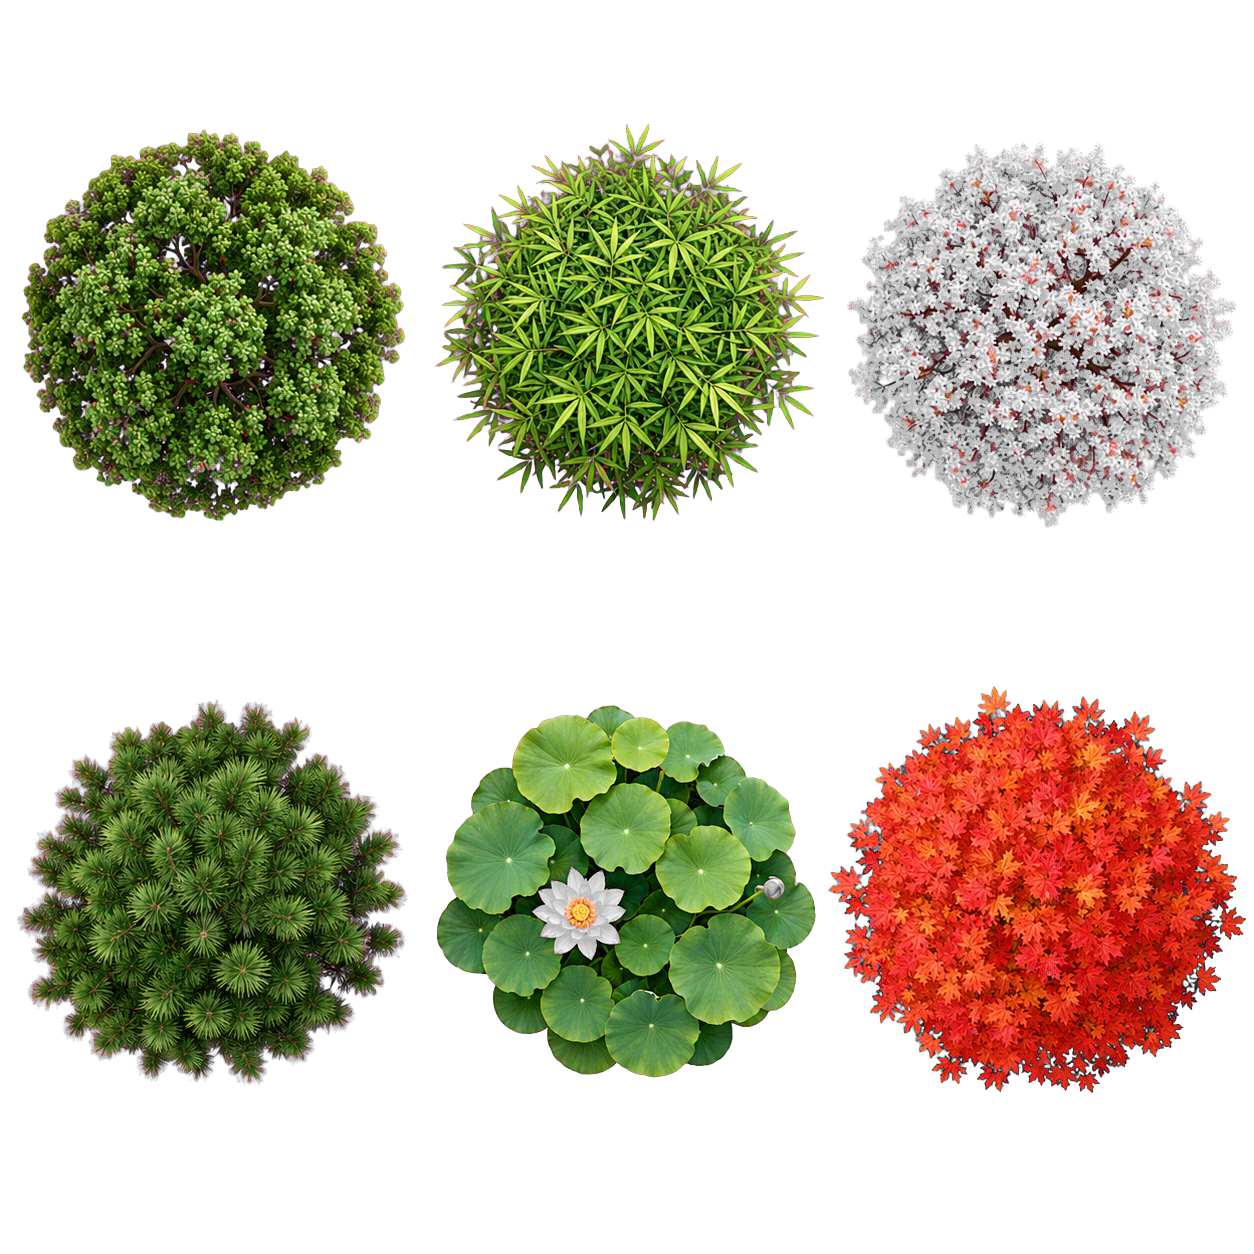
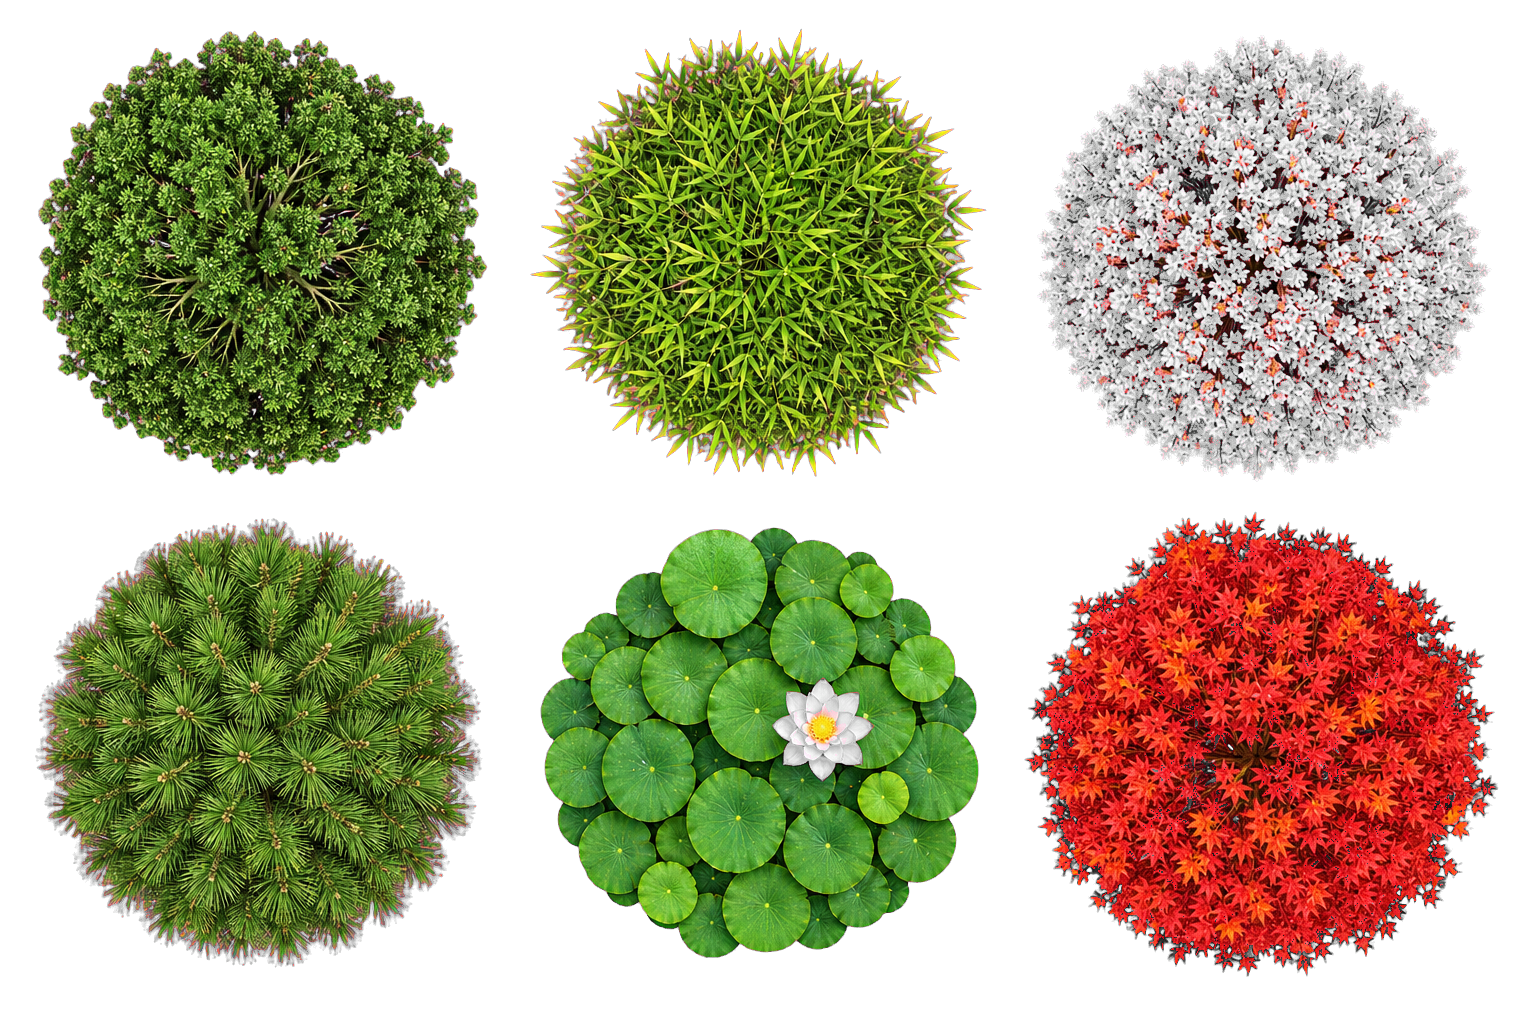
Veriosn4

diff --git a/styles.css b/styles.css
@@ -69,19 +69,28 @@ button {
 .brand {
   display: flex;
   align-items: center;
-  gap: 16px;
+  min-width: 0;
 }
 
-.brand-mark {
-  width: 54px;
-  height: 54px;
-  border-radius: 50%;
-  display: inline-block;
-  background:
-    radial-gradient(circle at 50% 50%, #f8e6a1 0 10%, transparent 11%),
-    radial-gradient(circle at 47% 48%, transparent 0 30%, rgba(91, 139, 72, 0.55) 31% 33%, transparent 34%),
-    conic-gradient(from 12deg, #6dae55, #b7d979, #3e8b58, #7ac7b4, #6dae55);
-  box-shadow: inset 0 0 0 4px rgba(255, 255, 255, 0.72), 0 8px 18px rgba(49, 104, 66, 0.18);
+.brand-logo {
+  display: block;
+  width: clamp(250px, 39vw, 500px);
+  max-height: 142px;
+  object-fit: contain;
+  object-position: left center;
+  mix-blend-mode: multiply;
+}
+
+.sr-only {
+  position: absolute;
+  width: 1px;
+  height: 1px;
+  margin: -1px;
+  padding: 0;
+  overflow: hidden;
+  clip: rect(0, 0, 0, 0);
+  white-space: nowrap;
+  border: 0;
 }
 
 h1,
@@ -211,6 +220,135 @@ dialog {
 .plant-input:focus {
   border-color: var(--water);
   box-shadow: 0 0 0 4px rgba(103, 183, 189, 0.16);
+}
+
+.plant-upload-panel {
+  margin: 22px 0 26px;
+  padding: 20px 22px;
+  border: 1px solid rgba(88, 132, 91, 0.24);
+  border-radius: 10px;
+  background: rgba(255, 255, 248, 0.58);
+}
+
+.rules-panel {
+  margin: 18px 0 22px;
+  border: 1px solid rgba(88, 132, 91, 0.24);
+  border-radius: 10px;
+  background: rgba(255, 255, 248, 0.58);
+}
+
+.rules-panel summary {
+  padding: 15px 20px;
+  color: #41634a;
+  cursor: pointer;
+  font-size: 17px;
+  font-weight: 900;
+}
+
+.rules-grid {
+  display: grid;
+  grid-template-columns: repeat(2, minmax(0, 1fr));
+  gap: 10px 22px;
+  padding: 0 20px 18px;
+  color: var(--muted);
+  font-size: 14px;
+  line-height: 1.55;
+}
+
+.rules-grid strong {
+  color: var(--leaf-dark);
+}
+
+.upload-heading {
+  display: flex;
+  align-items: end;
+  justify-content: space-between;
+  gap: 24px;
+  margin-bottom: 16px;
+}
+
+.upload-heading h2 {
+  color: #41634a;
+  font-size: 22px;
+}
+
+.upload-heading > p {
+  max-width: 560px;
+  color: var(--muted);
+  font-size: 14px;
+}
+
+.upload-controls {
+  display: grid;
+  grid-template-columns: minmax(150px, 0.7fr) minmax(240px, 1.5fr) auto;
+  align-items: end;
+  gap: 12px;
+}
+
+.upload-controls label {
+  display: grid;
+  gap: 6px;
+  color: #41634a;
+  font-size: 13px;
+  font-weight: 900;
+}
+
+.upload-controls input {
+  min-height: 44px;
+  width: 100%;
+  border: 1px solid rgba(88, 132, 91, 0.34);
+  border-radius: 8px;
+  padding: 9px 12px;
+  color: var(--ink);
+  background: rgba(255, 255, 255, 0.8);
+}
+
+.upload-button {
+  min-height: 44px;
+}
+
+.upload-status {
+  min-height: 21px;
+  margin-top: 8px;
+  color: #3f7650;
+  font-size: 13px;
+  font-weight: 800;
+}
+
+.upload-status.error {
+  color: #a34c59;
+}
+
+.custom-plant-list {
+  display: flex;
+  flex-wrap: wrap;
+  gap: 10px;
+}
+
+.custom-plant-item {
+  display: flex;
+  align-items: center;
+  gap: 9px;
+  padding: 6px 8px 6px 6px;
+  border: 1px solid rgba(88, 132, 91, 0.22);
+  border-radius: 999px;
+  background: rgba(255, 255, 255, 0.72);
+}
+
+.custom-plant-item img {
+  width: 42px;
+  height: 42px;
+  border-radius: 50%;
+  object-fit: contain;
+  background: #eef4e9;
+}
+
+.remove-custom-plant {
+  border: 0;
+  color: #a34c59;
+  background: transparent;
+  cursor: pointer;
+  font-weight: 900;
 }
 
 .plant-row {
@@ -626,6 +764,20 @@ dialog::backdrop {
 
   .player-card {
     padding: 18px;
+  }
+
+  .upload-heading {
+    align-items: flex-start;
+    flex-direction: column;
+    gap: 8px;
+  }
+
+  .upload-controls {
+    grid-template-columns: 1fr;
+  }
+
+  .rules-grid {
+    grid-template-columns: 1fr;
   }
 
   .plant-row {

diff --git a/index.html b/index.html
@@ -10,17 +10,50 @@
     <main class="shell">
       <header class="topbar">
         <div class="brand">
-          <span class="brand-mark" aria-hidden="true"></span>
-          <div>
-            <p class="eyebrow">Tree Top View Battle</p>
-            <h1>樹章戰鬥陀螺</h1>
-          </div>
+          <img class="brand-logo" src="assets/TreeBladeX_logo.png" alt="樹章戰鬥陀螺 TreeBlade X">
+          <h1 class="sr-only">樹章戰鬥陀螺 TreeBlade X</h1>
         </div>
         <button class="ghost-button" id="recordsButton" type="button">上場紀錄</button>
       </header>
 
       <section class="setup-view" id="setupView">
-        <p class="hint" id="modeHint">雙方各輸入三個植物名稱，每個植物會長成一顆俯視樹章陀螺。三回合各派一種植物對決，先得兩勝的植物樹章最強。</p>
+        <p class="hint" id="modeHint">3on3 輪替賽：雙方各準備三顆不同植物樹章，依序出戰。Spin Finish 得 1 分，Burst／Over Finish 得 2 分，Xtreme Finish 得 3 分，率先取得 4 分者獲勝。</p>
+
+        <details class="rules-panel">
+          <summary>戰鬥陀螺比賽規則</summary>
+          <div class="rules-grid">
+            <p><strong>同步發射</strong>　裁判喊出「3、2、1，Go Shoot！」時，雙方同時發射，並利用戰鬥盤中央的加速齒輪軌道高速衝刺、碰撞。</p>
+            <p><strong>Spin Finish・1 分</strong>　對手先停止旋轉，而你的陀螺仍持續旋轉。</p>
+            <p><strong>Burst Finish・2 分</strong>　撞擊使對手卡榫鬆脫並在場上解體。</p>
+            <p><strong>Over Finish・2 分</strong>　將對手撞出場外，落入戰鬥盤角落凹槽。</p>
+            <p><strong>Xtreme Finish・3 分</strong>　利用極速衝刺，將對手打入中央極限區洞口。</p>
+            <p><strong>平手</strong>　雙方同時達成得分條件或情況不明時不計分，重新對戰。</p>
+            <p><strong>官方 3on3</strong>　三顆陀螺依序標示 1、2、3 號，陣容零件不得重複；本遊戲以三種不同植物代表陣容並循環輪替，直到一方先取得 4 分。</p>
+          </div>
+        </details>
+
+        <section class="plant-upload-panel" aria-labelledby="plantUploadTitle">
+          <div class="upload-heading">
+            <div>
+              <p class="eyebrow">Custom Tree Top View</p>
+              <h2 id="plantUploadTitle">新增植物樹章</h2>
+            </div>
+            <p>輸入植物名稱並上傳對應的俯視圖片；隊伍輸入相同名稱時，會優先使用這張圖片。</p>
+          </div>
+          <div class="upload-controls">
+            <label>
+              <span>植物名稱</span>
+              <input id="customPlantName" type="text" maxlength="8" placeholder="例如：銀杏" autocomplete="off">
+            </label>
+            <label class="file-picker">
+              <span>Tree top view 圖片</span>
+              <input id="customPlantFile" type="file" accept="image/png,image/jpeg,image/webp">
+            </label>
+            <button class="ghost-button upload-button" id="addPlantImageButton" type="button">加入樹章</button>
+          </div>
+          <p class="upload-status" id="uploadStatus" role="status"></p>
+          <div class="custom-plant-list" id="customPlantList" aria-label="已加入的自訂植物樹章"></div>
+        </section>
 
         <div class="setup-grid">
           <article class="player-card player-one">
@@ -61,7 +94,7 @@
               <div class="round-overlay hidden" id="roundOverlay"></div>
             </div>
             <div class="battle-controls">
-              <button class="primary-button small hidden" id="nextRoundButton" type="button">下一回合</button>
+              <button class="primary-button small hidden" id="nextRoundButton" type="button">下一局</button>
               <button class="primary-button small" id="rematchButton" type="button">重新對戰</button>
               <button class="ghost-button small" id="backButton" type="button">回設定</button>
             </div>

diff --git a/README.md b/README.md
@@ -1,27 +1,119 @@
-# 樹章戰鬥陀螺
+<div align="center">
 
-![樹章戰鬥陀螺封面](assets/readme-cover.png)
+![TreeBlade X 樹章戰鬥陀螺封面](assets/TreeBladeX_cover.png)
 
-清新自然風格的瀏覽器小遊戲。玩家雙方各輸入三個植物名稱，每個植物會化為一顆俯視視角的「樹章陀螺」；三回合依序派出植物對決，先拿下兩勝的一方獲勝。
+# 樹章戰鬥陀螺・TreeBlade X
 
-## 專案特色
+以植物樹冠為戰刃、以自然之力決勝的瀏覽器戰鬥陀螺遊戲。
 
-- **3 戰兩勝制**：最多三回合，先得兩勝即提前封王。
-- **植物樹章 Tree top view**：榕樹、竹子、櫻花、松樹、荷花、楓樹使用 GPT Image 生成的俯視植物素材。
-- **即時預覽**：輸入植物名稱後，畫面會立即顯示植物隊伍與能力值。
-- **Canvas 戰鬥動畫**：兩顆樹章陀螺會在草地競技場中旋轉、碰撞並決出勝負。
-- **清新自然介面**：以葉綠、晨光黃、水色與植物紋理建立輕盈的遊戲氛圍。
-- **本機即可遊玩**：不需要安裝套件，直接開啟 HTML 檔案即可。
+[開始遊玩](https://tony428tw.github.io/TREEBLADE_X/) · [回報問題](https://github.com/tony428tw/TREEBLADE_X/issues)
 
-## 玩法
+</div>
 
-1. 玩家一與玩家二各輸入三個植物名稱。
-2. 可用換行、逗號、頓號或分號分隔植物。
-3. 每個植物會產生樹冠、根系、旋風、韌性等能力值。
-4. 第 1 到第 3 個植物依序出戰。
-5. 先取得 2 勝的一方獲勝；若前兩回合已 2:0，第三回合不會再進行。
-6. 對戰紀錄會保存在瀏覽器 `localStorage`。
+## 遊戲介紹
 
+TreeBlade X 將榕樹、竹子、櫻花、松樹、荷花與楓樹化為真正垂直俯視的植物戰鬥陀螺。玩家各自編成三顆不同樹章，透過樹冠、根系、旋風與韌性等能力，在專屬戰鬥盤上高速衝刺、碰撞。
+
+比賽採官方風格的 3on3 輪替計分制。裁判喊出「3、2、1，Go Shoot！」後雙方同時發射，率先累積 4 分的玩家獲勝。
+
+## 主要特色
+
+- **真正 Tree top view**：預設植物素材採垂直 90° 正投影，不使用帶透視角度的樹木圖片。
+- **3on3 植物編成**：雙方各準備三種不同植物，依 1、2、3 號順序循環出戰。
+- **先取得 4 分**：不採三戰兩勝，依每局結局累積對應分數。
+- **高速戰鬥動畫**：Canvas 2D 呈現旋轉、加速、碰撞、葉片飛散與生命力變化。
+- **自訂植物樹章**：輸入植物名稱並上傳 PNG、JPG 或 WebP，同名植物會使用自訂圖片。
+- **即時隊伍預覽**：輸入植物後立刻顯示樹章外觀與能力值。
+- **本機紀錄保存**：比賽紀錄與自訂圖片保存在目前瀏覽器。
+- **免安裝即可遊玩**：使用原生 HTML、CSS、JavaScript，無需建置工具。
+
+## 比賽規則
+
+### 發射
+
+雙方必須在裁判喊出「3、2、1，Go Shoot！」時同時發射，並利用戰鬥盤中央的加速齒輪軌道高速衝刺與碰撞。
+
+### 得分方式
+
+| 結局 | 分數 | 判定方式 |
+| --- | :---: | --- |
+| 殘存結局 Spin Finish | 1 分 | 對手先停止或失去旋轉動力，我方仍持續旋轉 |
+| 爆裂結局 Burst Finish | 2 分 | 撞擊使對手卡榫鬆脫並在場上解體 |
+| 擊飛結局 Over Finish | 2 分 | 將對手撞出場外並落入角落凹槽 |
+| 極限結局 Xtreme Finish | 3 分 | 極速衝刺後將對手打入中央極限區洞口 |
+
+雙方同時達成條件或結果不明時判定平手，本局不計分並重新對戰。最先累積至 4 分的玩家獲勝。
+
+### 3on3 陣容
+
+每位玩家準備三顆不同樹章，依序標示為 1、2、3 號。TreeBlade X 以三種不可重複的植物名稱代表陣容，並在每局後循環輪替。
+
+## 操作方式
+
+1. 玩家一、玩家二各輸入三種不同植物名稱。
+2. 名稱可用換行、逗號、頓號或分號分隔。
+3. 若要使用自己的植物，先在「新增植物樹章」輸入名稱並上傳對應頂視圖片。
+4. 按下「開戰」，等待裁判倒數後同步發射。
+5. 每局結束後查看結局與得分，再按「下一局」繼續。
+6. 任一玩家率先取得 4 分時比賽結束。
+
+## 預設植物
+
+| 植物 | 樹章類型 |
+| --- | --- |
+| 榕樹 | 闊葉樹冠 |
+| 竹子 | 竹葉叢 |
+| 櫻花 | 花冠樹 |
+| 松樹 | 針葉樹冠 |
+| 荷花 | 蓮葉與花 |
+| 楓樹 | 紅橙楓葉樹冠 |
+
+## 執行方式
+
+直接開啟專案根目錄的 `index.html` 即可遊玩。
+
+若瀏覽器限制本機圖片讀取，可在專案資料夾啟動簡易伺服器：
+
+```bash
+python -m http.server 8765
 ```
 
+接著前往：
 
+```text
+http://127.0.0.1:8765/
+```
+
+## 專案結構
+
+```text
+TREEBLADE_X/
+├── index.html                 # 遊戲頁面
+├── styles.css                # 介面與響應式樣式
+├── script.js                 # 戰鬥、計分、動畫與儲存邏輯
+├── README.md
+├── assets/
+│   ├── TreeBladeX_cover.png  # README 封面
+│   ├── TreeBladeX_logo.png   # 程式標題 Logo
+│   └── gpt-plant-tree-top-sheet.png
+└── Tree top view/            # 原始頂視風格參考
+```
+
+## 使用技術
+
+- HTML5
+- CSS3
+- JavaScript
+- Canvas 2D
+- LocalStorage
+
+## 資料保存
+
+- 對戰紀錄儲存在瀏覽器 `localStorage`。
+- 自訂圖片會縮放為 512 × 512 WebP 後保存在目前瀏覽器。
+- 清除瀏覽器網站資料會一併移除以上內容。
+
+## 專案連結
+
+- GitHub：[tony428tw/TREEBLADE_X](https://github.com/tony428tw/TREEBLADE_X)
+- 問題回報：[GitHub Issues](https://github.com/tony428tw/TREEBLADE_X/issues)